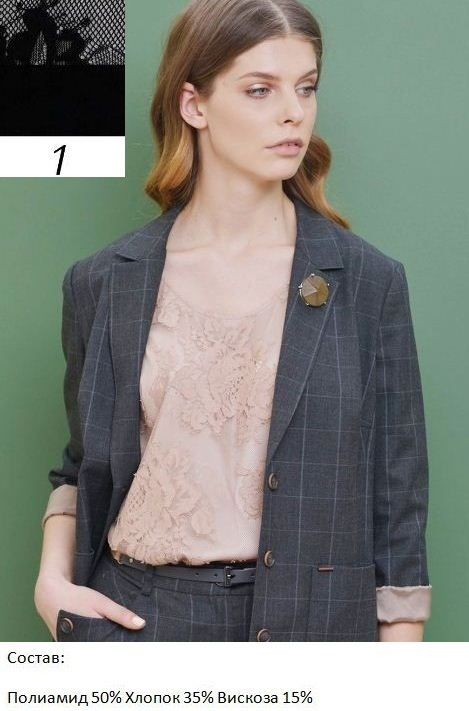
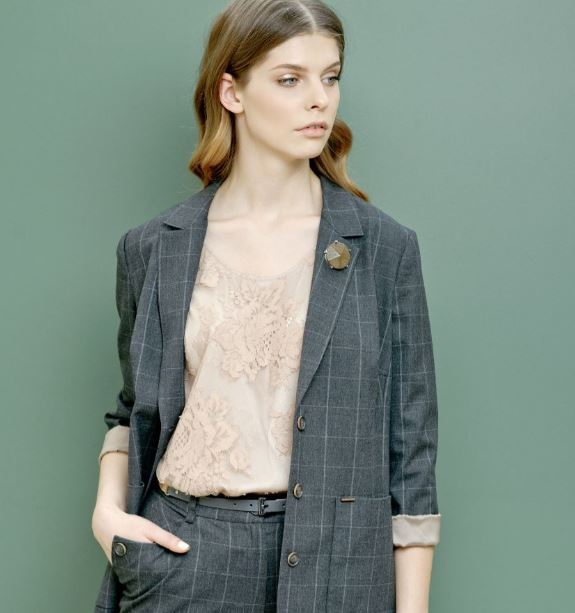
add products

diff --git a/src/components/ProductsItem/ProductsItem.styled.jsx b/src/components/ProductsItem/ProductsItem.styled.jsx
@@ -2,15 +2,17 @@ import styled from '@emotion/styled';
 
 export const Item = styled.li`
   width: 274px;
-  border: 1px solid rgba(239, 237, 232, 0.6);
   border-radius: 12px;
+  box-shadow: ${props => props.theme.shadows.small};
+  &:hover {
+    cursor: zoom-in;
+  }
 `;
 
 export const WrapperFoto = styled.div`
   position: relative;
   height: 268px;
   border-radius: 12px 12px 0 0;
-  border: 1px solid rgba(239, 237, 232, 0.2);
   overflow: hidden;
 `;
 
@@ -24,7 +26,6 @@ export const WrapperFlex = styled.div`
   display: flex;
   align-items: center;
   justify-content: space-around;
-  margin-top: 14px;
   margin-bottom: 8px;
   font-weight: 500;
   line-height: 150%;
@@ -43,7 +44,7 @@ export const Wrap = styled.div`
 
 export const WrapperText = styled.div`
   display: flex;
-  justify-content: space-between;
+  justify-content: space-around;
   margin: 0 8px 8px 8px;
   @media (min-width: 768px) {
     margin: 0 12px 12px 12px;

diff --git a/src/images/img.js b/src/images/img.js
@@ -19,6 +19,7 @@ import b6459 from '../images/6459.jpg';
 import b6473 from '../images/6473.jpg';
 import b6536 from '../images/6536.jpg';
 import b6552 from '../images/6552.JPG';
+import bv6552 from '../images/6552v.jpg';
 import t1 from '../images/image_top_1.jpg';
 import t2 from '../images/image_top_2.jpg';
 import t3 from '../images/image_top_3.jpg';
@@ -28,7 +29,6 @@ import logoM from '../images/burvin2.png';
 import b6579 from '../images/6579.JPG';
 import b6588 from '../images/6588.JPG';
 import b6600 from '../images/6600.JPG';
-import b6601 from '../images/6601.JPG';
 import b6604 from '../images/6604.JPG';
 import b6606 from '../images/6606.JPG';
 import b6611 from '../images/6611.JPG';
@@ -65,6 +65,7 @@ const img = {
   b6473,
   b6536,
   b6552,
+  bv6552,
   t1,
   t2,
   t3,
@@ -74,7 +75,6 @@ const img = {
   b6579,
   b6588,
   b6600,
-  b6601,
   b6604,
   b6606,
   b6611,

diff --git a/src/utils/imageMap.js b/src/utils/imageMap.js
@@ -17,6 +17,22 @@ const {
   b9610,
   b9501,
   b9482,
+  b6102,
+  b6356,
+  b6437,
+  b6456,
+  b6459,
+  b6473,
+  b6536,
+  b6552,
+  bv6552,
+  b6579,
+  b6588,
+  b6600,
+  b6604,
+  b6606,
+  b6611,
+  b6627,
 } = img;
 
 export const imageMap = {
@@ -37,4 +53,20 @@ export const imageMap = {
   9610: b9610,
   9501: b9501,
   9482: b9482,
+  6102: b6102,
+  6356: b6356,
+  6437: b6437,
+  6456: b6456,
+  6459: b6459,
+  6473: b6473,
+  6536: b6536,
+  6552: b6552,
+  6552.1: bv6552,
+  6579: b6579,
+  6588: b6588,
+  6600: b6600,
+  6604: b6604,
+  6606: b6606,
+  6611: b6611,
+  6627: b6627,
 };

diff --git a/src/components/ProductsList/ProductsList.styled.jsx b/src/components/ProductsList/ProductsList.styled.jsx
@@ -4,6 +4,7 @@ export const List = styled.ul`
   display: flex;
   flex-wrap: wrap;
   justify-content: center;
+  gap: 8px;
   @media (min-width: 768px) {
     gap: 16px;
   }
